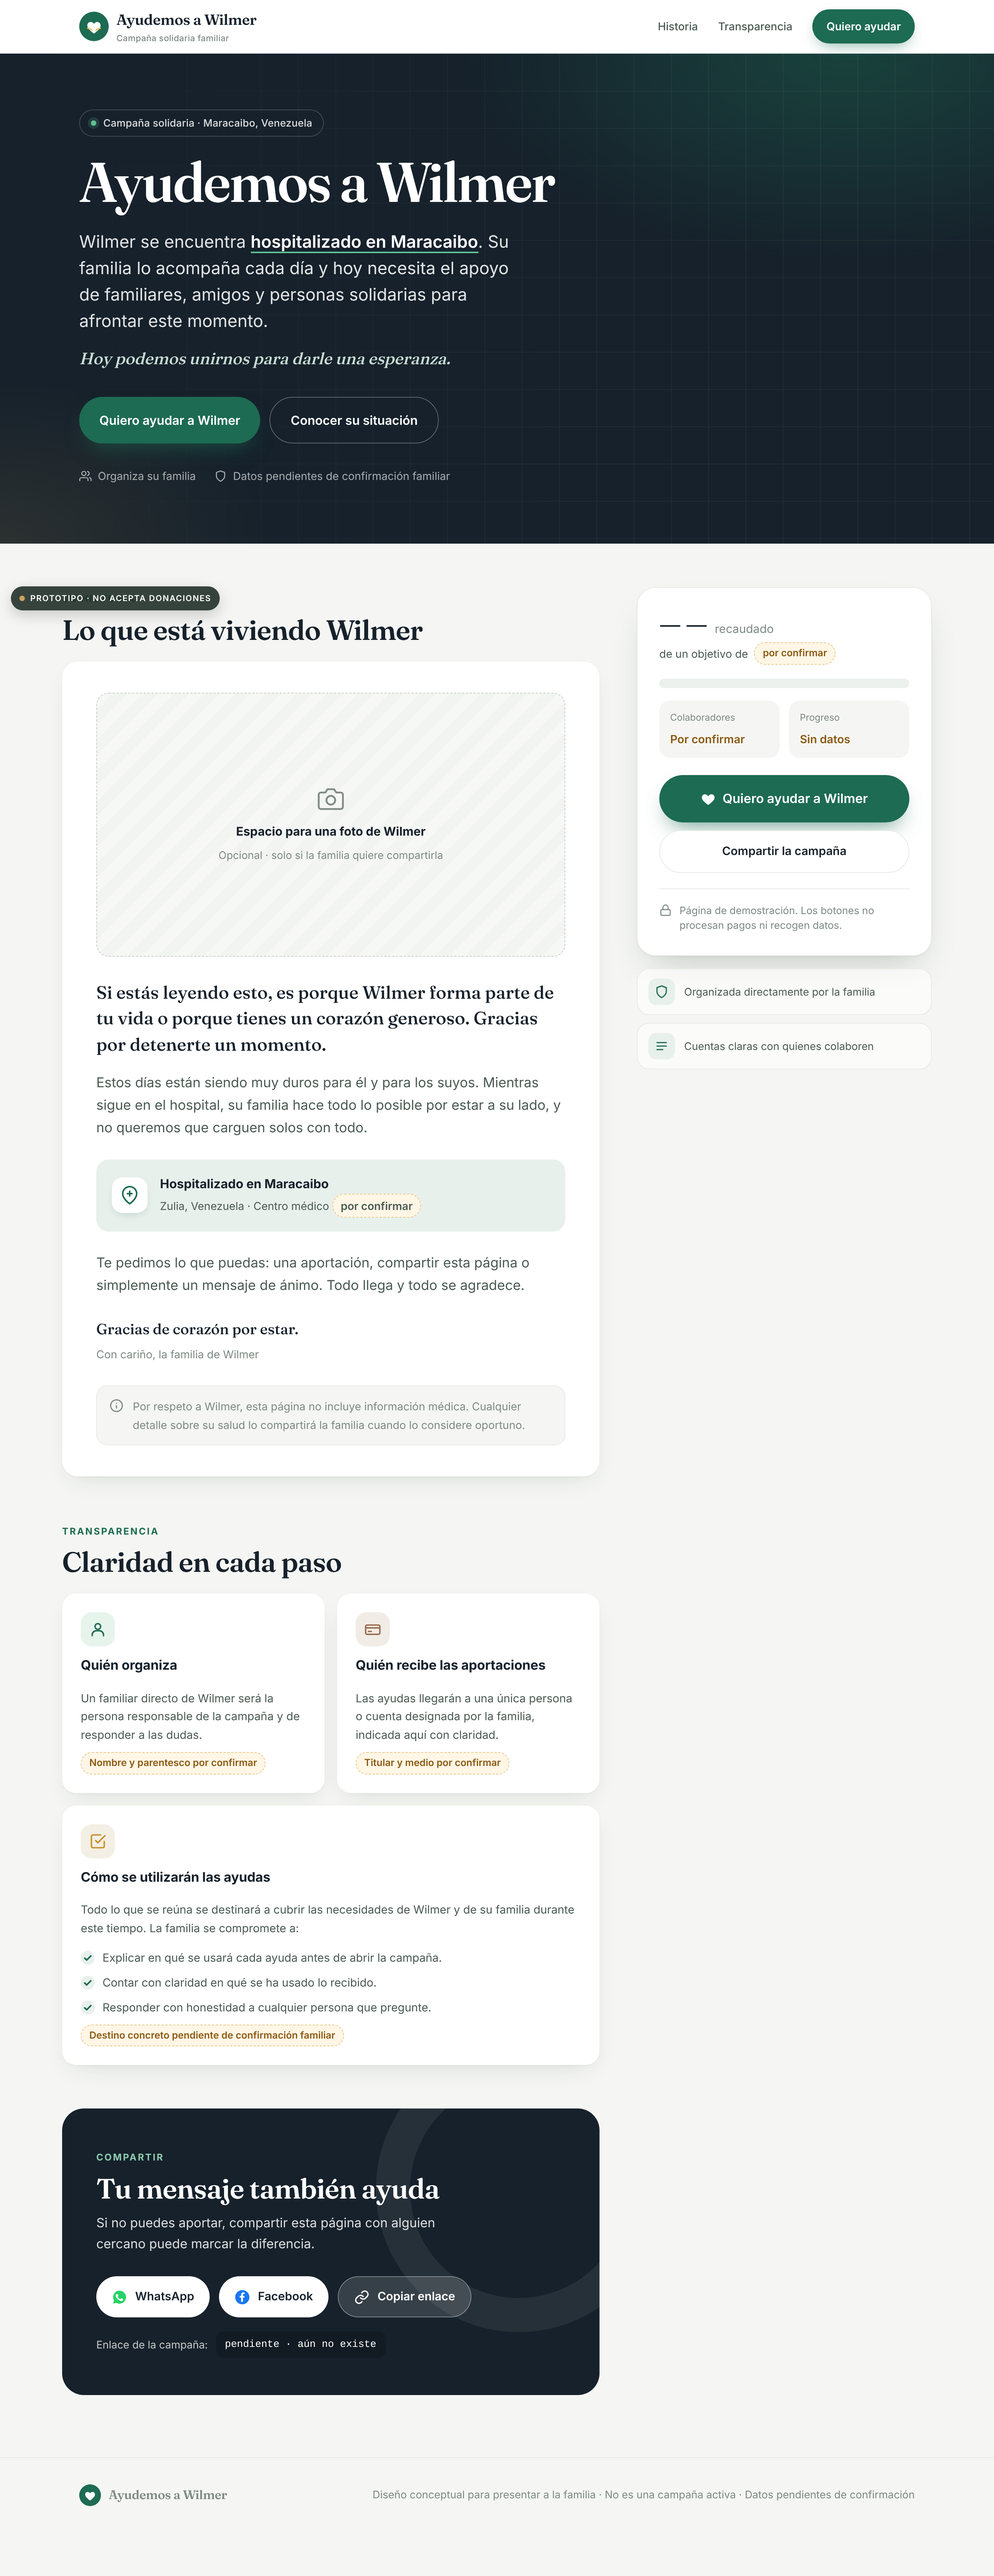
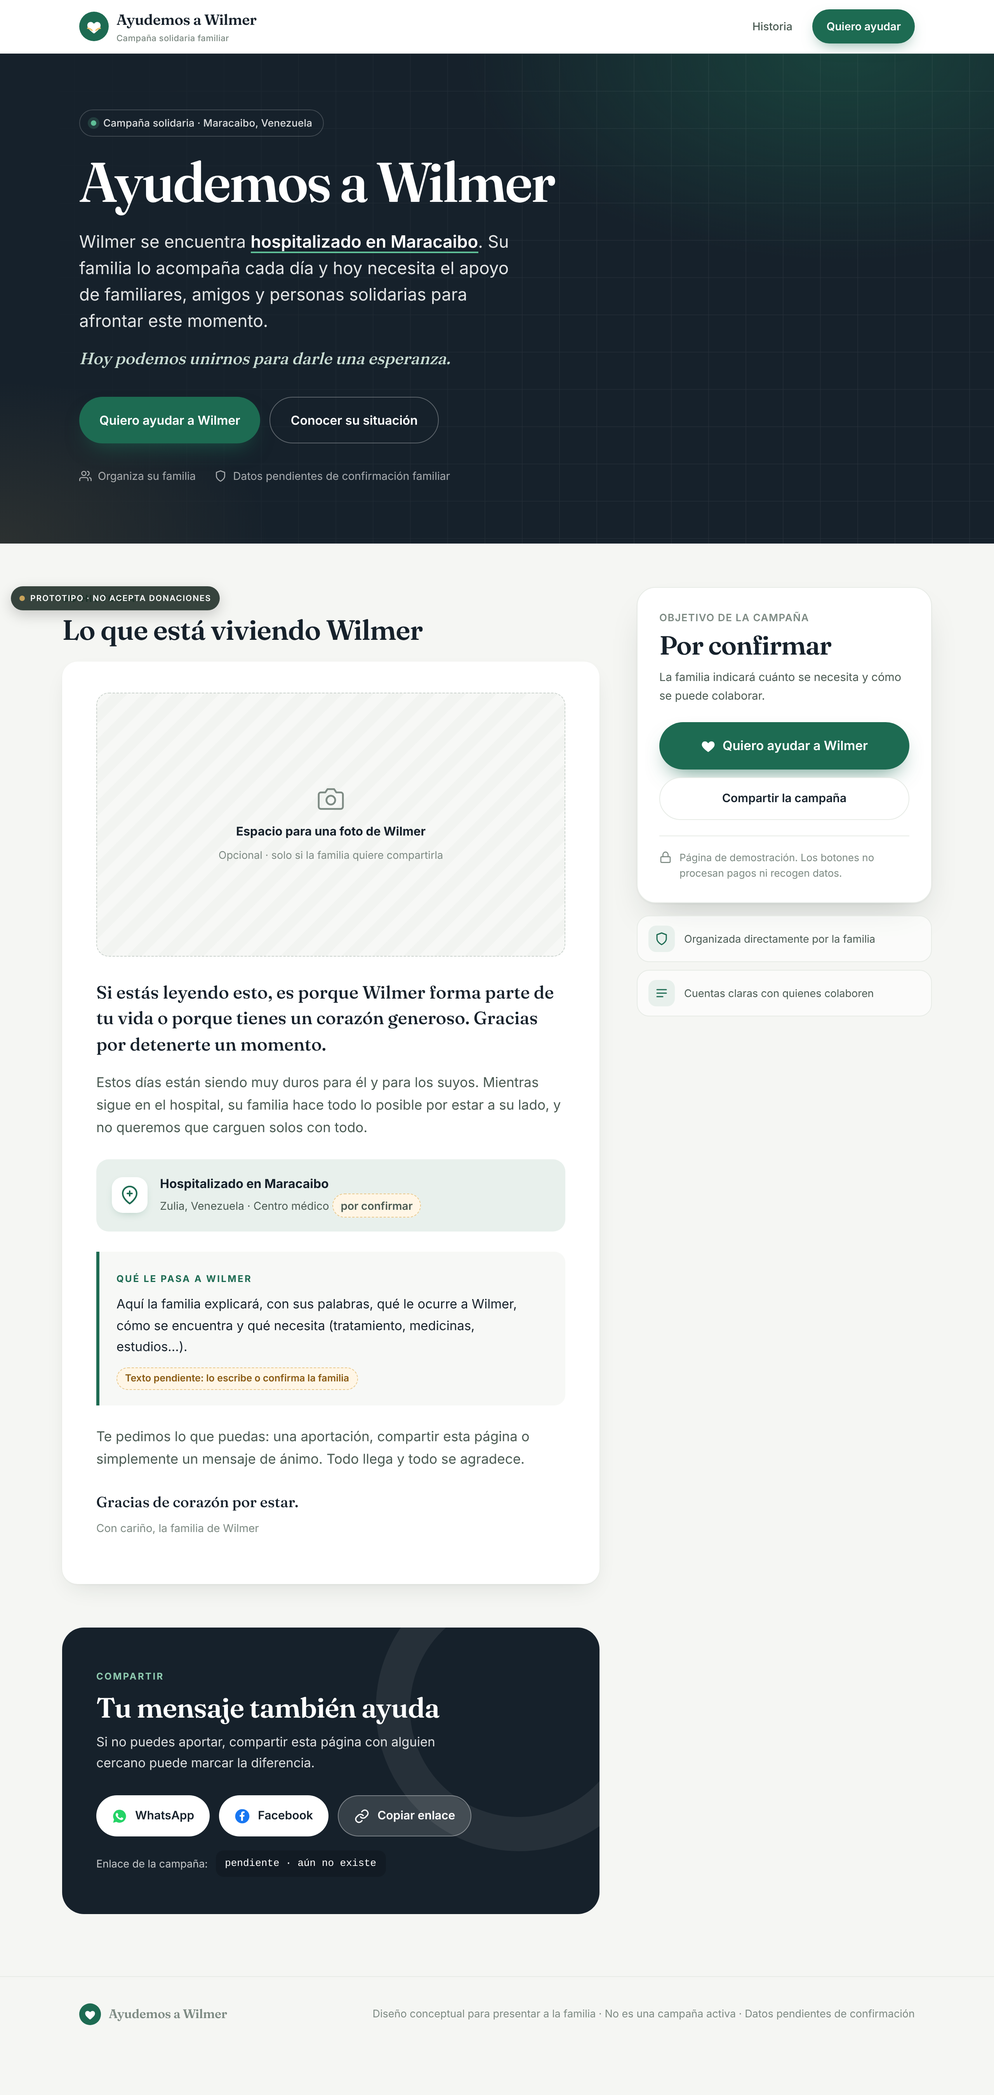
Prototipo Wilmer: apartado del caso, sin transparencia ni cifra recaudada
Claude-Session: https://claude.ai/code/session_01EJB8HmAiv8gsMqL4w5jTpA

Changed region(s): [[0.0, 0.0, 1.0, 0.4359], [0.0625, 0.3736, 0.625, 0.934], [0.5, 0.3736, 0.5312, 0.4047]]

diff --git a/prototipos/campana-wilmer.html b/prototipos/campana-wilmer.html
@@ -95,6 +95,11 @@ h3{font-size:17px;margin:0 0 6px;letter-spacing:-.005em}
 .foto span{font-size:13.5px;color:var(--tenue)}
 .firma{font-family:var(--serif);font-size:19px!important;color:var(--tinta)!important;margin-top:26px!important}
 .firma span{font-family:var(--sans);font-size:14px;color:var(--tenue)}
+.caso{background:#f7f8f6;border-left:4px solid var(--verde);border-radius:0 14px 14px 0;padding:20px 22px;margin:26px 0}
+.caso .caso-hueco{font-size:16.5px!important;color:var(--tinta)!important;margin:8px 0 12px!important}
+.caso .pendiente{white-space:normal}
+.panel-objetivo-etq{font-size:13px;font-weight:600;letter-spacing:.06em;text-transform:uppercase;color:var(--tenue);margin-bottom:6px}
+.panel-texto{font-size:14.5px;color:var(--texto);margin:10px 0 22px}
 .cita{border-left:3px solid var(--melocoton);padding:4px 0 4px 20px;margin:28px 0 8px;font-family:var(--serif);font-style:italic;font-size:20px;color:var(--tinta);line-height:1.45}
 .pendiente{display:inline-flex;align-items:center;gap:6px;background:#fff6e6;color:#8a5a12;border:1px dashed #e9c98d;
   font-size:12.5px;font-weight:600;padding:3px 10px;border-radius:999px;white-space:nowrap}
@@ -257,7 +262,6 @@ footer{border-top:1px solid var(--linea);padding:34px 0 90px;font-size:13.5px;co
     </a>
     <nav class="menu" aria-label="Secciones">
       <a href="#historia">Historia</a>
-      <a href="#transparencia">Transparencia</a>
       <button class="btn btn-verde btn-chico" data-demo="ayudar">Quiero ayudar</button>
     </nav>
   </div>
@@ -309,51 +313,15 @@ footer{border-top:1px solid var(--linea);padding:34px 0 90px;font-size:13.5px;co
             <div><b>Hospitalizado en Maracaibo</b><span>Zulia, Venezuela · Centro médico <span class="pendiente">por confirmar</span></span></div>
           </div>
 
+          <div class="caso">
+            <span class="antetitulo">Qué le pasa a Wilmer</span>
+            <p class="caso-hueco">Aquí la familia explicará, con sus palabras, qué le ocurre a Wilmer, cómo se encuentra y qué necesita (tratamiento, medicinas, estudios…).</p>
+            <span class="pendiente">Texto pendiente: lo escribe o confirma la familia</span>
+          </div>
+
           <p>Te pedimos lo que puedas: una aportación, compartir esta página o simplemente un mensaje de ánimo. Todo llega y todo se agradece.</p>
           <p class="firma">Gracias de corazón por estar.<br><span>Con cariño, la familia de Wilmer</span></p>
-
-          <div class="aviso">
-            <svg width="18" height="18" viewBox="0 0 24 24" fill="none" stroke="#7d8a83" stroke-width="2" stroke-linecap="round" aria-hidden="true"><circle cx="12" cy="12" r="10"/><path d="M12 16v-4M12 8h.01"/></svg>
-            <span>Por respeto a Wilmer, esta página no incluye información médica. Cualquier detalle sobre su salud lo compartirá la familia cuando lo considere oportuno.</span>
-          </div>
         </article>
-      </section>
-
-      <!-- ============ TRANSPARENCIA ============ -->
-      <section id="transparencia" class="bloque aparece">
-        <span class="antetitulo">Transparencia</span>
-        <h2>Claridad en cada paso</h2>
-        <div class="trans-grid">
-          <div class="trans">
-            <div class="ico" style="background:#e6f4ec">
-              <svg width="22" height="22" viewBox="0 0 24 24" fill="none" stroke="#1d6b52" stroke-width="2" stroke-linecap="round" stroke-linejoin="round" aria-hidden="true"><circle cx="12" cy="8" r="4"/><path d="M4 21v-1a6 6 0 0 1 6-6h4a6 6 0 0 1 6 6v1"/></svg>
-            </div>
-            <h3>Quién organiza</h3>
-            <p>Un familiar directo de Wilmer será la persona responsable de la campaña y de responder a las dudas.</p>
-            <span class="pendiente">Nombre y parentesco por confirmar</span>
-          </div>
-          <div class="trans">
-            <div class="ico" style="background:#f1ece6">
-              <svg width="22" height="22" viewBox="0 0 24 24" fill="none" stroke="#9a6b4f" stroke-width="2" stroke-linecap="round" stroke-linejoin="round" aria-hidden="true"><rect x="2" y="6" width="20" height="13" rx="2"/><path d="M2 10h20M6 15h4"/></svg>
-            </div>
-            <h3>Quién recibe las aportaciones</h3>
-            <p>Las ayudas llegarán a una única persona o cuenta designada por la familia, indicada aquí con claridad.</p>
-            <span class="pendiente">Titular y medio por confirmar</span>
-          </div>
-          <div class="trans ancha">
-            <div class="ico" style="background:#f3efe4">
-              <svg width="22" height="22" viewBox="0 0 24 24" fill="none" stroke="#c8902b" stroke-width="2" stroke-linecap="round" stroke-linejoin="round" aria-hidden="true"><path d="M9 11l3 3L22 4"/><path d="M21 12v7a2 2 0 0 1-2 2H5a2 2 0 0 1-2-2V5a2 2 0 0 1 2-2h11"/></svg>
-            </div>
-            <h3>Cómo se utilizarán las ayudas</h3>
-            <p>Todo lo que se reúna se destinará a cubrir las necesidades de Wilmer y de su familia durante este tiempo. La familia se compromete a:</p>
-            <ul class="compromisos">
-              <li>Explicar en qué se usará cada ayuda antes de abrir la campaña.</li>
-              <li>Contar con claridad en qué se ha usado lo recibido.</li>
-              <li>Responder con honestidad a cualquier persona que pregunte.</li>
-            </ul>
-            <span class="pendiente">Destino concreto pendiente de confirmación familiar</span>
-          </div>
-        </div>
       </section>
 
       <!-- ============ COMPARTIR ============ -->
@@ -385,15 +353,9 @@ footer{border-top:1px solid var(--linea);padding:34px 0 90px;font-size:13.5px;co
     <!-- ============ PANEL DE RECAUDACIÓN ============ -->
     <aside class="lateral aparece" aria-label="Recaudación">
       <div class="panel">
-        <div class="panel-cifra"><b>— —</b><span>recaudado</span></div>
-        <div class="panel-objetivo">de un objetivo de <span class="pendiente">por confirmar</span></div>
-
-        <div class="progreso" role="progressbar" aria-label="Progreso de la recaudación, sin datos todavía" aria-valuemin="0" aria-valuemax="100" aria-valuenow="0"><span id="relleno"></span></div>
-
-        <div class="panel-datos">
-          <div><small>Colaboradores</small><b>Por confirmar</b></div>
-          <div><small>Progreso</small><b>Sin datos</b></div>
-        </div>
+        <div class="panel-objetivo-etq">Objetivo de la campaña</div>
+        <div class="panel-cifra"><b>Por confirmar</b></div>
+        <p class="panel-texto">La familia indicará cuánto se necesita y cómo se puede colaborar.</p>
 
         <button class="btn btn-ayudar" data-demo="ayudar">
           <svg width="20" height="20" viewBox="0 0 24 24" aria-hidden="true"><path d="M12 21s-7-4.4-9.3-9C1 8.4 3.3 4.5 7 4.5c2 0 3.7 1.1 5 3 1.3-1.9 3-3 5-3 3.7 0 6 3.9 4.3 7.5C19 16.6 12 21 12 21z" fill="#fff"/></svg>
